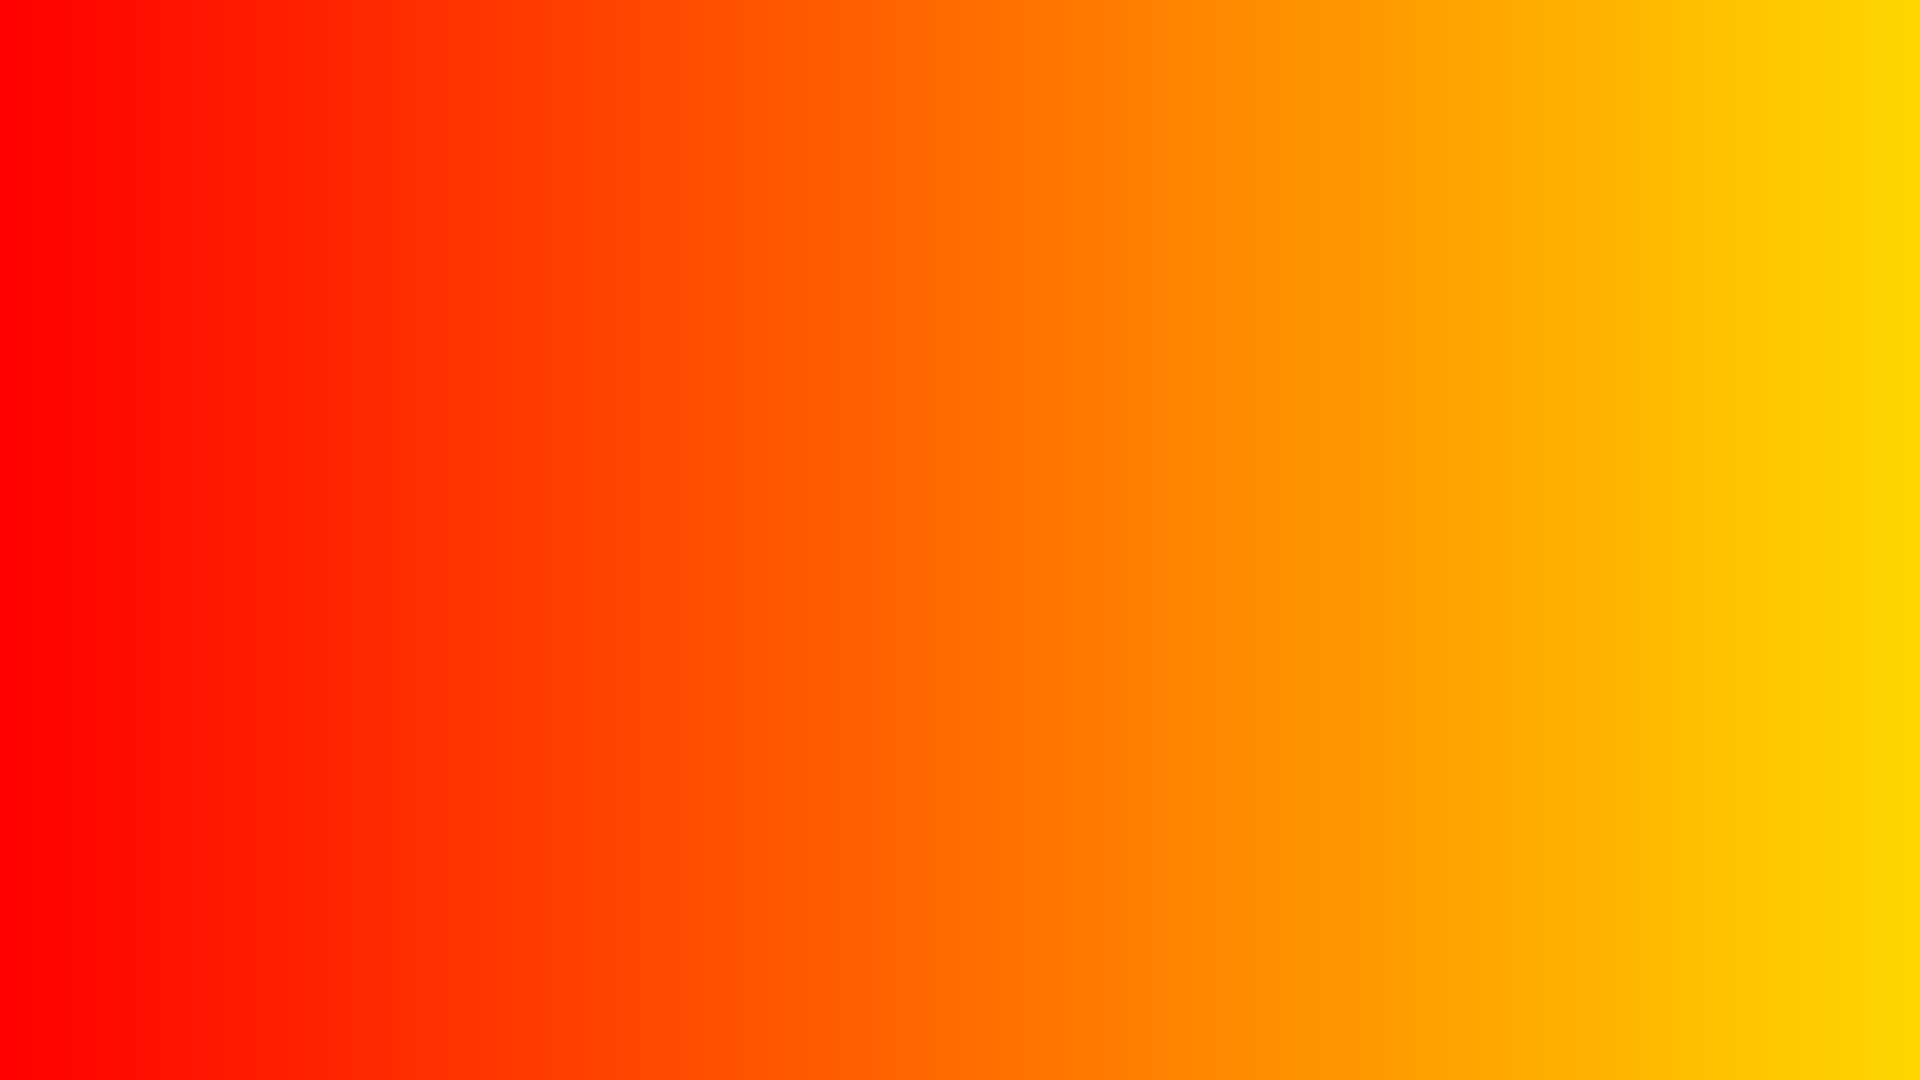
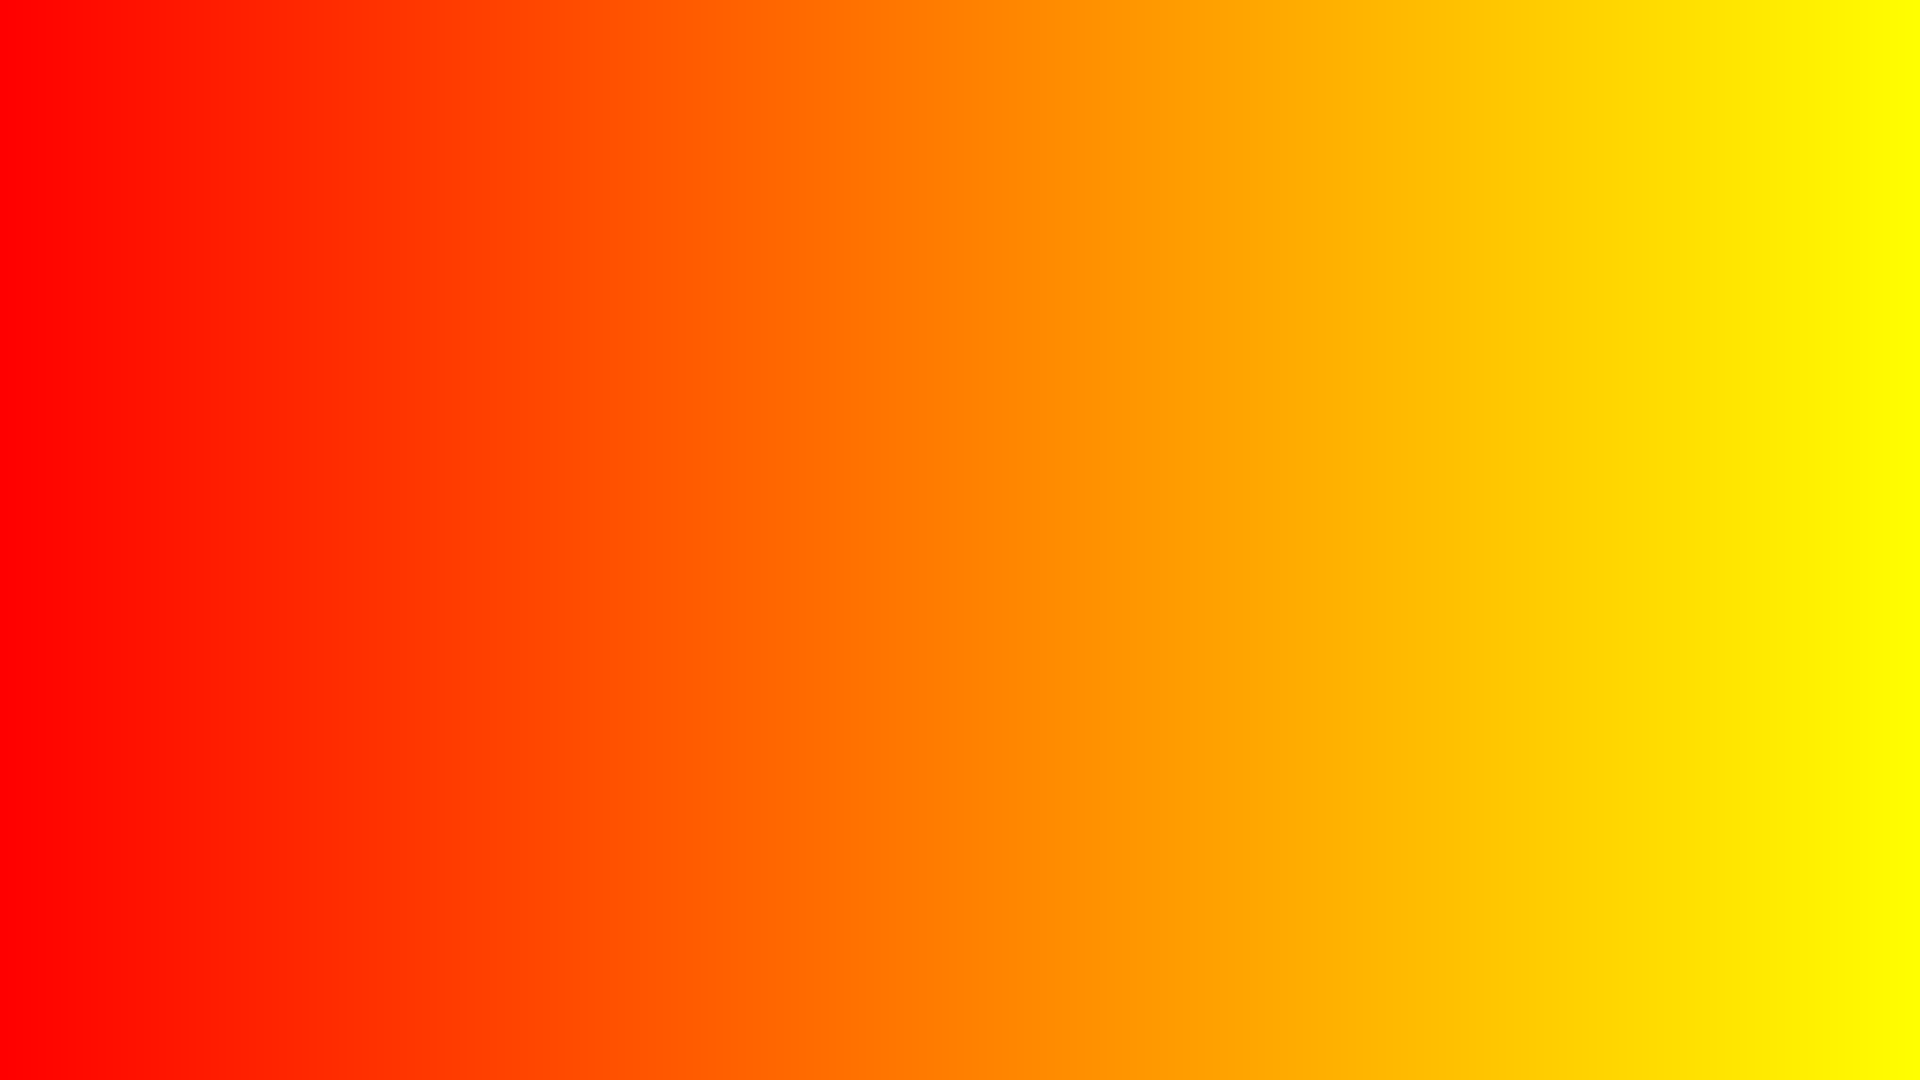
updated README: example and usage

diff --git a/README.md b/README.md
@@ -3,10 +3,16 @@
 
 ## ⚙ Usage
 ```bash
-python main.py X_size Y_size R_start G_start B_start R_end G_end B_end
+python3 gradientgen.py X_size Y_size R_start G_start B_start R_end G_end B_end
 ```
 
 ## 📌 Examples
+```bash
+python3 gradientgen.py 1920 1080 255 0 0 255 255 0
+```
+#### Size &nbsp;&nbsp;&nbsp;&nbsp; &nbsp;&nbsp;&nbsp;&nbsp;&nbsp;&nbsp;&nbsp; : **1920** x **1080** (*HD 1080*)
+#### RGB (start) &nbsp; : **255 0 0** (*RED*)
+#### RGB (end) &nbsp;&nbsp; : **255 255 0** (*YELLOW*)  
 ![A generated color gradient](https://github.com/HYOUG/GradientGenerator/blob/main/examples/gradient_3.png?raw=true)
 
 ## 📜 License
